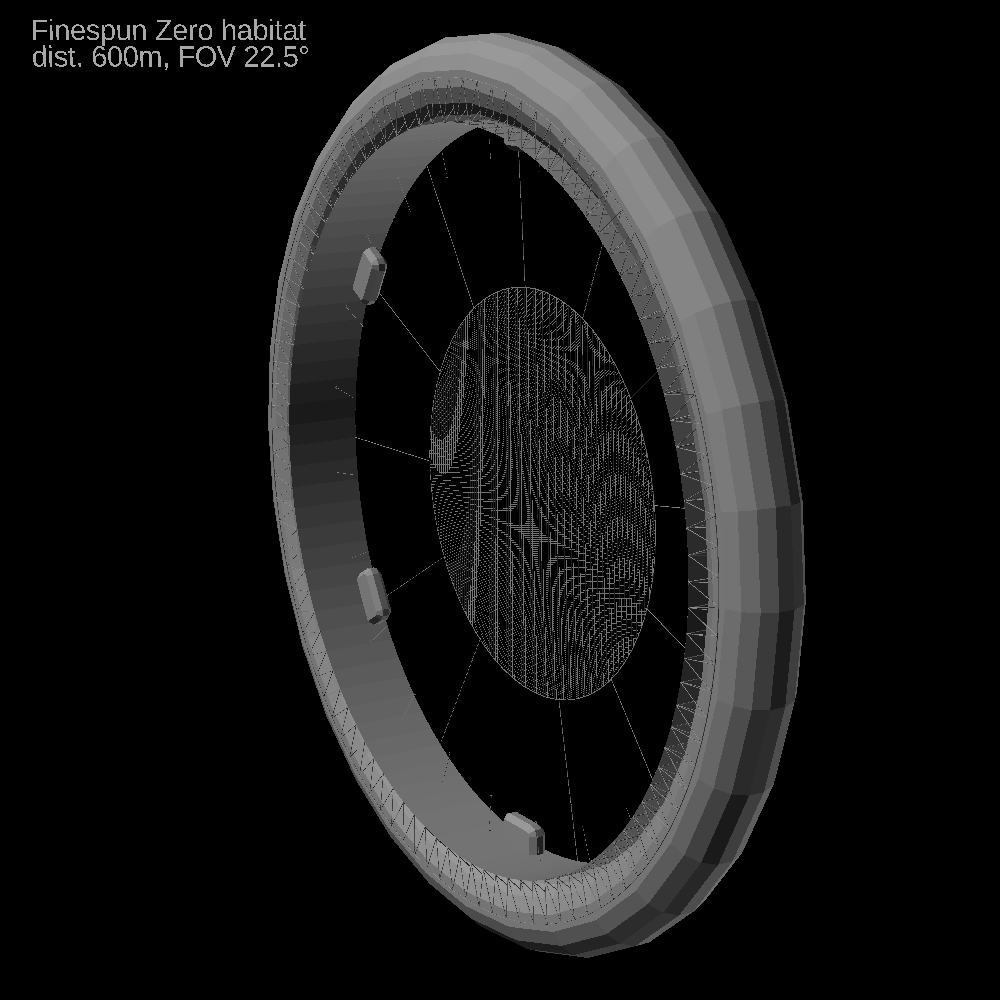
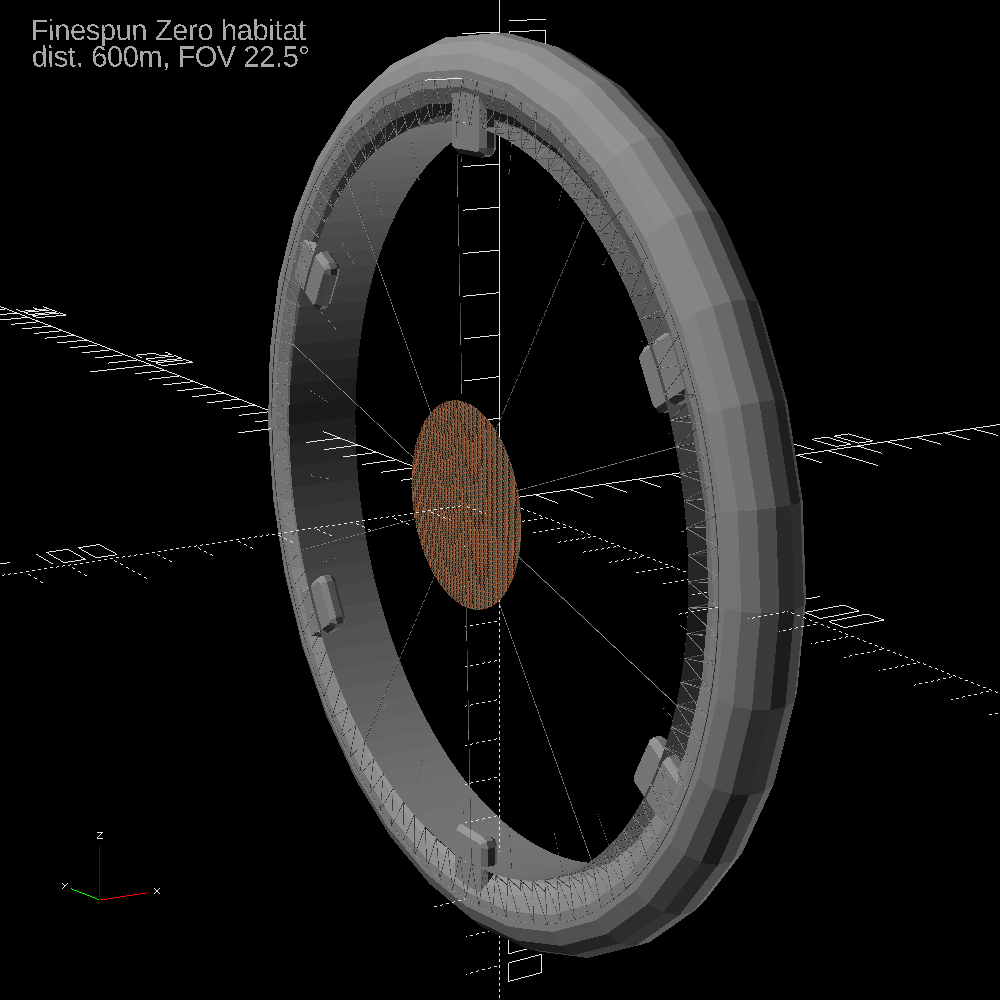
Finespun zero rectenna model update
new rectenna for finespun zero habitat
- updated the openscad model with the new rectenna
- rendered a new illustration image for the habitat
- added notes to rewrite the rectenna section

diff --git a/pages/finespun_zero.html b/pages/finespun_zero.html
@@ -104,6 +104,7 @@ runway.
 <br class="division">
 
 <h1>Rectenna</h1>
+<article class="warning">outdated, needs to be rewritten to match the microwave phased arrays from the felicity tech tree</article>
 <img src="../images/placeholder.png" class="styled right"></img>
 <article>
 A large rectenna is mounted in the center of the station to accept usually about 4 megawatts from the surrounding solar arrays equipped with a compatible microwave phased array.
